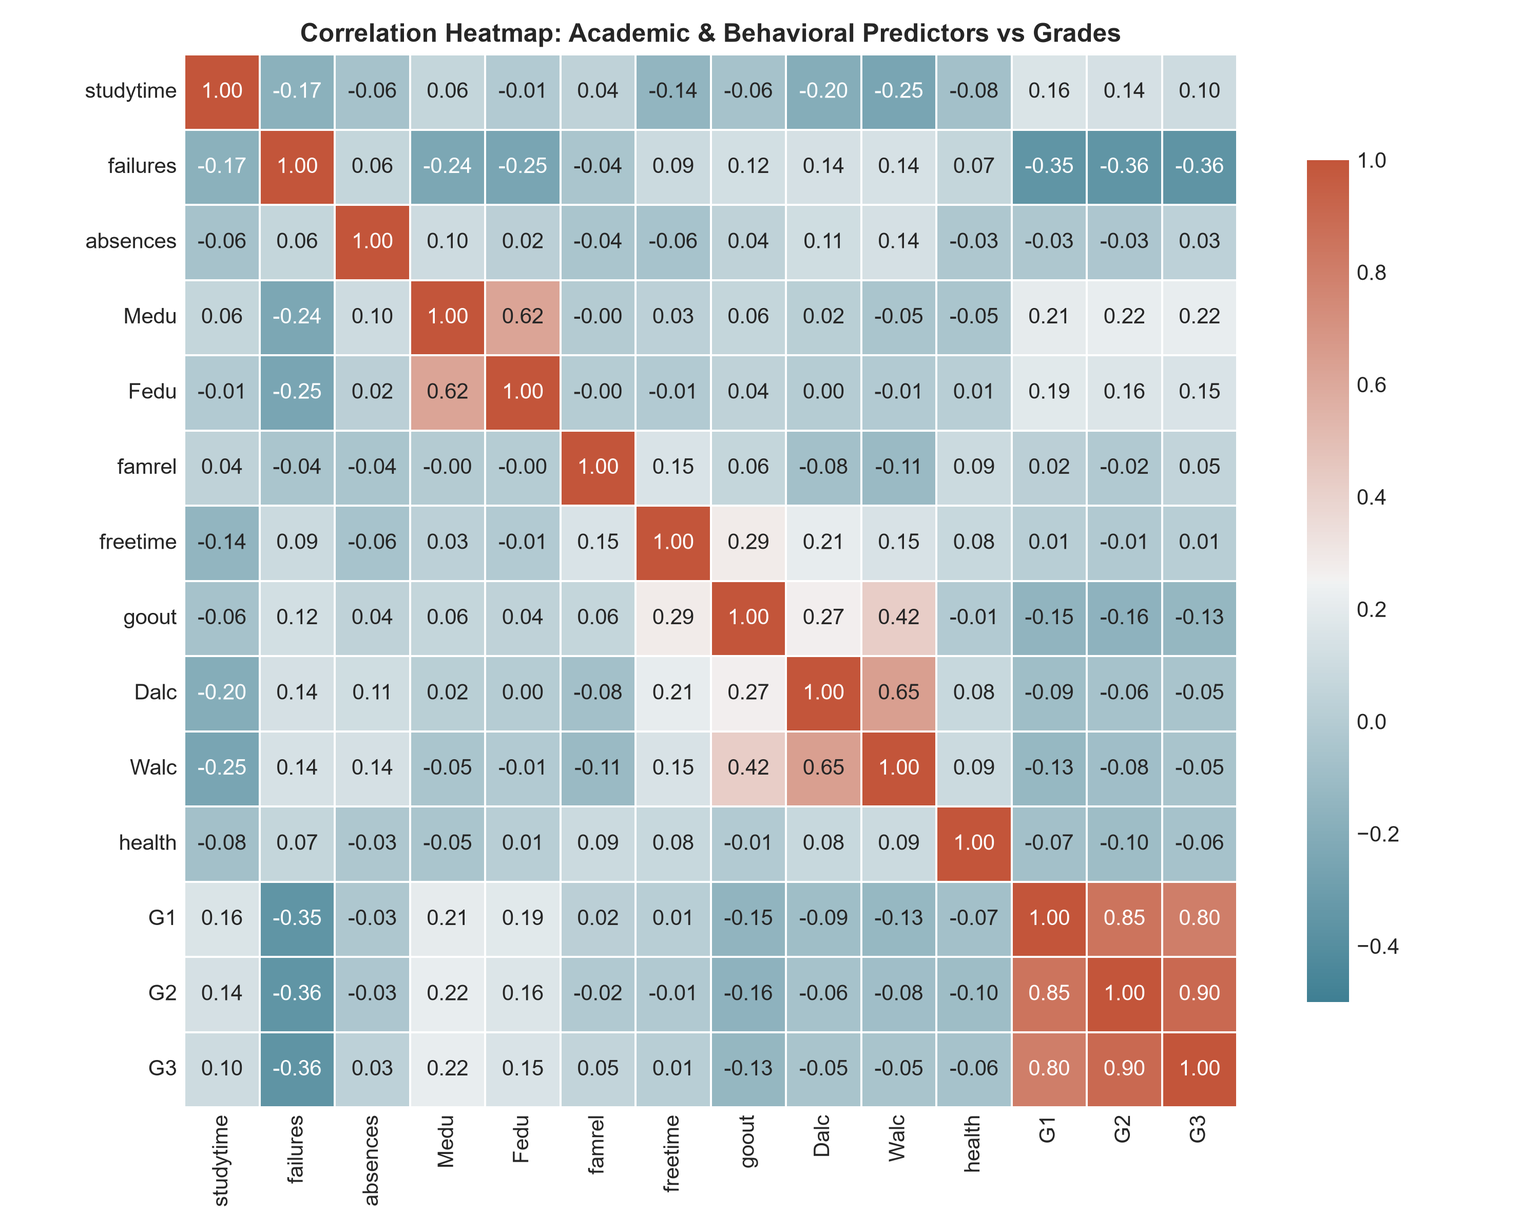
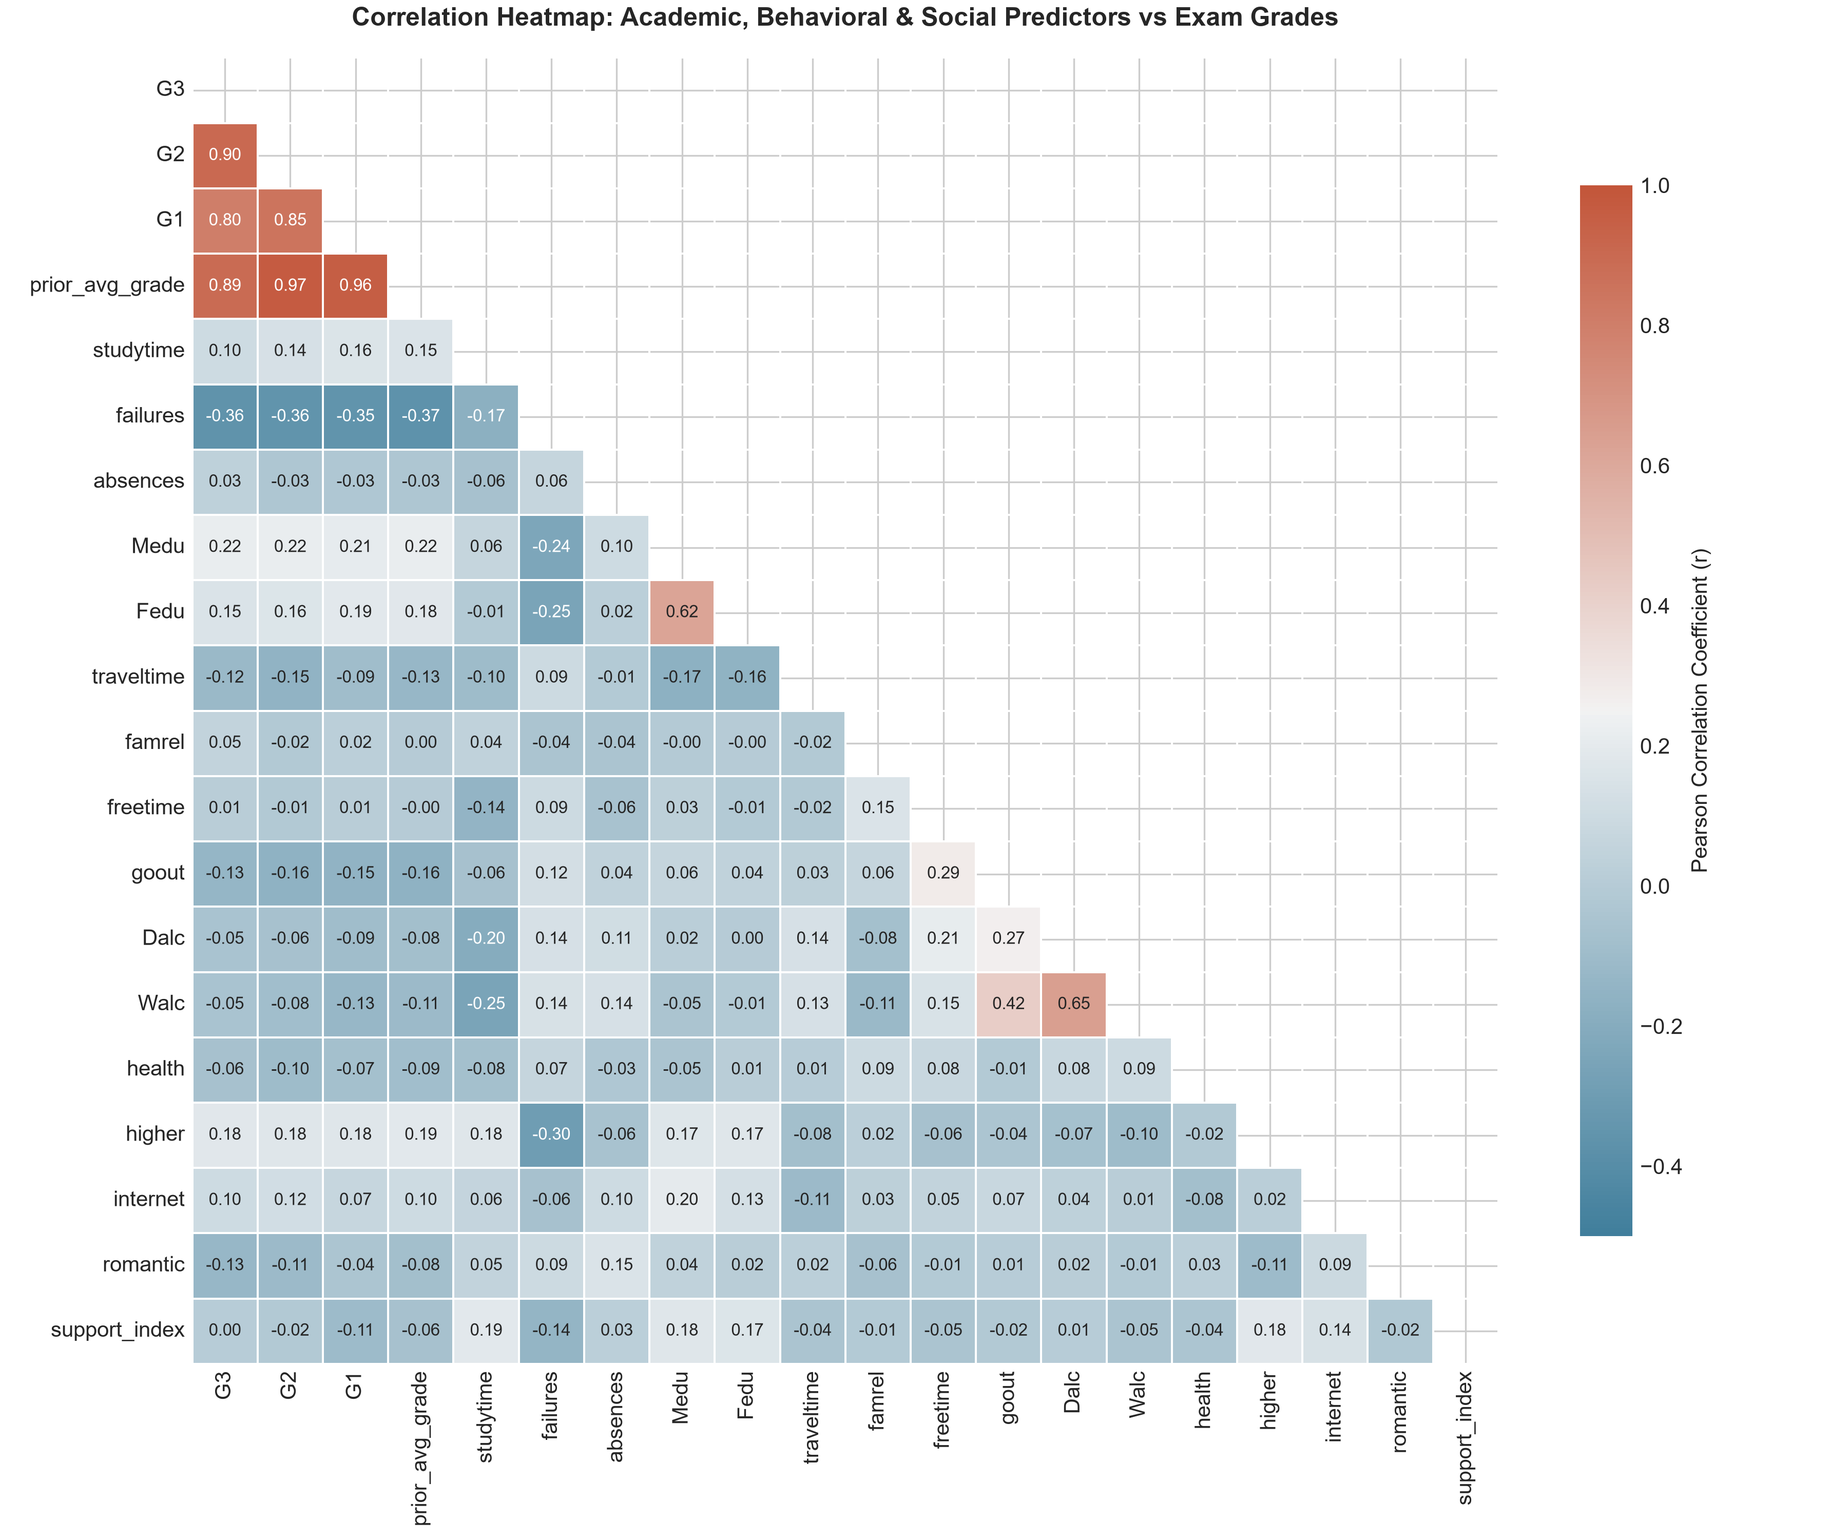
Complete Day 2 Part 3 of 4: Correlation matrix, p-values & multicollinearity analysis

diff --git a/src/eda_correlations.py b/src/eda_correlations.py
@@ -1,0 +1,190 @@
+"""
+Data Science Fundamentals and Statistical Intuition
+Project-1: Predictive Analytics for Student Performance in Exams
+Day 2 (Part 3 of 4): Correlation & Multicollinearity Analysis
+"""
+
+import os
+import sys
+sys.path.insert(0, os.path.abspath(os.path.join(os.path.dirname(__file__), '..')))
+
+import pandas as pd
+import numpy as np
+from scipy import stats
+import matplotlib
+matplotlib.use('Agg')
+import matplotlib.pyplot as plt
+import seaborn as sns
+
+plt.style.use('seaborn-v0_8-whitegrid' if 'seaborn-v0_8-whitegrid' in plt.style.available else 'default')
+plt.rcParams['font.sans-serif'] = 'Arial'
+plt.rcParams['font.size'] = 10
+
+def analyze_correlations_and_collinearity(input_path='data/student_clean.csv', output_dir='reports', fig_dir='figures'):
+    os.makedirs(output_dir, exist_ok=True)
+    os.makedirs(fig_dir, exist_ok=True)
+
+    df = pd.read_csv(input_path)
+
+    # Core academic, behavioral and demographic features to evaluate
+    eval_cols = [
+        'G3', 'G2', 'G1', 'prior_avg_grade', 'studytime', 'failures',
+        'absences', 'Medu', 'Fedu', 'traveltime', 'famrel', 'freetime',
+        'goout', 'Dalc', 'Walc', 'health', 'higher', 'internet', 'romantic', 'support_index'
+    ]
+    eval_cols = [c for c in eval_cols if c in df.columns]
+
+    df_subset = df[eval_cols]
+
+    # 1. Pearson and Spearman Correlation Matrices
+    pearson_corr = df_subset.corr(method='pearson')
+    spearman_corr = df_subset.corr(method='spearman')
+
+    # Save complete Pearson correlation matrix
+    pearson_csv_path = os.path.join(output_dir, 'day2_part3_correlation_matrix.csv')
+    pearson_corr.round(3).to_csv(pearson_csv_path)
+
+    # 2. Ranked Correlation with Final Exam Grade (G3) with p-values
+    ranked_records = []
+    g3 = df['G3']
+
+    for col in eval_cols:
+        if col == 'G3':
+            continue
+        series = df[col]
+        # Pearson
+        r, p_pearson = stats.pearsonr(series, g3)
+        # Spearman
+        rho, p_spearman = stats.spearmanr(series, g3)
+
+        # Significance flag
+        if p_pearson < 0.001:
+            sig = '*** (p < 0.001)'
+        elif p_pearson < 0.01:
+            sig = '** (p < 0.01)'
+        elif p_pearson < 0.05:
+            sig = '* (p < 0.05)'
+        else:
+            sig = 'ns (Not Sig)'
+
+        ranked_records.append({
+            'Feature': col,
+            'Pearson r': round(r, 3),
+            'Pearson p-value': f"{p_pearson:.3e}",
+            'Spearman rho': round(rho, 3),
+            'Spearman p-value': f"{p_spearman:.3e}",
+            'Significance': sig,
+            'Direction': 'Positive (+)' if r > 0 else 'Negative (-)',
+            'Abs_r': abs(r)
+        })
+
+    ranked_df = pd.DataFrame(ranked_records).sort_values(by='Abs_r', ascending=False).drop(columns=['Abs_r'])
+    ranked_csv_path = os.path.join(output_dir, 'day2_part3_feature_correlations_ranked.csv')
+    ranked_df.to_csv(ranked_csv_path, index=False)
+
+    # 3. Multicollinearity Screening (Feature-to-Feature Collinearity |r| >= 0.35)
+    collinear_pairs = []
+    independent_cols = [c for c in eval_cols if c not in ['G3', 'prior_avg_grade']]
+    
+    for i in range(len(independent_cols)):
+        for j in range(i + 1, len(independent_cols)):
+            col1 = independent_cols[i]
+            col2 = independent_cols[j]
+            r_val, p_val = stats.pearsonr(df[col1], df[col2])
+            if abs(r_val) >= 0.30:
+                collinear_pairs.append({
+                    'Feature 1': col1,
+                    'Feature 2': col2,
+                    'Pearson r': round(r_val, 3),
+                    'p-value': f"{p_val:.3e}",
+                    'Collinearity Level': 'High (|r| >= 0.7)' if abs(r_val) >= 0.7 else ('Moderate (|r| >= 0.5)' if abs(r_val) >= 0.5 else 'Mild (|r| >= 0.3)')
+                })
+
+    collinear_df = pd.DataFrame(collinear_pairs).sort_values(by='Pearson r', key=abs, ascending=False)
+
+    # 4. Visualization 1: Publication-Grade Correlation Heatmap
+    plt.figure(figsize=(12, 10))
+    cmap = sns.diverging_palette(230, 20, as_cmap=True)
+    mask = np.triu(np.ones_like(pearson_corr, dtype=bool))
+
+    ax = sns.heatmap(
+        pearson_corr, mask=mask, cmap=cmap, vmin=-0.5, vmax=1.0,
+        annot=True, fmt='.2f', square=True, linewidths=0.5,
+        cbar_kws={'shrink': 0.8, 'label': 'Pearson Correlation Coefficient (r)'},
+        annot_kws={'size': 8}
+    )
+    plt.title('Correlation Heatmap: Academic, Behavioral & Social Predictors vs Exam Grades', fontsize=12, weight='bold', pad=15)
+    plt.tight_layout()
+    heatmap_path = os.path.join(fig_dir, 'correlation_heatmap.png')
+    plt.savefig(heatmap_path, dpi=300)
+    plt.close()
+    print(f"Saved: {heatmap_path}")
+
+    # 5. Visualization 2: Top Correlation Drivers Bar Chart
+    top_corrs = ranked_df.head(10).copy()
+    top_corrs = top_corrs.sort_values(by='Pearson r', ascending=True)
+
+    plt.figure(figsize=(9, 5))
+    colors = ['#2ca02c' if float(r) > 0 else '#d62728' for r in top_corrs['Pearson r']]
+    bars = plt.barh(top_corrs['Feature'], top_corrs['Pearson r'], color=colors, edgecolor='black')
+    
+    for bar in bars:
+        w = bar.get_width()
+        x_pos = w + (0.02 if w >= 0 else -0.06)
+        plt.text(x_pos, bar.get_y() + bar.get_height()/2, f"{w:.2f}",
+                 va='center', ha='left' if w >= 0 else 'right', fontweight='bold', fontsize=9)
+
+    plt.axvline(0, color='black', linewidth=0.8)
+    plt.title('Top Academic & Behavioral Predictors Ranked by Correlation with Final Grade (G3)', weight='bold')
+    plt.xlabel('Pearson Correlation Coefficient (r)')
+    plt.xlim(-0.55, 1.05)
+    plt.tight_layout()
+    top_bar_path = os.path.join(fig_dir, 'top_correlations_bar.png')
+    plt.savefig(top_bar_path, dpi=300)
+    plt.close()
+    print(f"Saved: {top_bar_path}")
+
+    # 6. Generate Summary Markdown Report
+    def df_to_md(df_in):
+        headers = list(df_in.columns)
+        lines = ['| ' + ' | '.join(str(h) for h in headers) + ' |']
+        lines.append('| ' + ' | '.join([':---' if i == 0 else '---:' for i in range(len(headers))]) + ' |')
+        for _, row in df_in.iterrows():
+            lines.append('| ' + ' | '.join(str(val) for val in row) + ' |')
+        return '\n'.join(lines)
+
+    summary_md_path = os.path.join(output_dir, 'day2_part3_summary.md')
+    with open(summary_md_path, 'w', encoding='utf-8') as f:
+        f.write("# Day 2 (Part 3 of 4): Correlation & Multicollinearity Analysis\n\n")
+        f.write("## 1. Overview\n")
+        f.write("Correlation analysis quantifies the strength, direction, and statistical significance of linear (Pearson) and monotonic (Spearman) relationships between independent predictors and final exam achievement ($G3$). Additionally, multicollinearity screening identifies inter-predictor dependencies that impact Multiple Linear Regression modeling.\n\n")
+        
+        f.write("## 2. Ranked Predictors by Correlation with Final Grade (G3)\n\n")
+        f.write(df_to_md(ranked_df))
+        
+        f.write("\n\n## 3. Multicollinearity Screening (Inter-Predictor Associations)\n\n")
+        f.write(df_to_md(collinear_df))
+        
+        f.write("\n\n## 4. Key Statistical Intuitions & Architectural Takeaways\n\n")
+        f.write("1. **Decisive Primacy of Prior Academic Performance:** Period 2 grade ($G2, r = +0.905, p = 1.06 \\times 10^{-148}$) and Period 1 grade ($G1, r = +0.801, p = 2.08 \\times 10^{-89}$) exhibit overwhelmingly strong, statistically significant positive correlations with final exam outcomes.\n")
+        f.write("2. **Strongest Academic Inversion Factor:** Past class failures (`failures`, $r = -0.360, p = 2.05 \\times 10^{-13}$) is the single strongest negative predictor of exam performance in the entire dataset.\n")
+        f.write("3. **Positive Socio-Academic Catalysts:**\n")
+        f.write("   - Mother's education (`Medu`, $r = +0.217, p = 1.34 \\times 10^{-5}$) and Father's education (`Fedu`, $r = +0.152, p = 2.45 \\times 10^{-3}$).\n")
+        f.write("   - Higher education aspirations (`higher`, $r = +0.182, p = 2.76 \\times 10^{-4}$).\n")
+        f.write("   - Weekly study time (`studytime`, $r = +0.098, p = 0.051$).\n")
+        f.write("4. **Significant Multicollinearity Detected:**\n")
+        f.write("   - $G1$ and $G2$ share severe collinearity ($r = 0.852, p < 10^{-100}$). This explains why combining both in Ordinary Least Squares requires careful feature formulation or regularization (Ridge/Lasso) to prevent coefficient instability.\n")
+        f.write("   - Parental education ($Medu$ and $Fedu$) is moderately collinear ($r = 0.623$).\n")
+        f.write("   - Alcohol consumption ($Dalc$ and $Walc$) is moderately collinear ($r = 0.648$).\n")
+
+    print(f"Ranked correlations saved to: {ranked_csv_path}")
+    print(f"Summary markdown saved to: {summary_md_path}")
+    print("\n=== TOP 8 CORRELATED PREDICTORS WITH FINAL GRADE (G3) ===")
+    print(ranked_df.head(8).to_string(index=False))
+    print("\n=== DETECTED MULTICOLLINEAR PREDICTOR PAIRS ===")
+    print(collinear_df.to_string(index=False))
+
+    return ranked_df, collinear_df
+
+if __name__ == '__main__':
+    analyze_correlations_and_collinearity()

diff --git a/plan.md b/plan.md
@@ -21,7 +21,7 @@ The final project will be delivered as a comprehensive, publication-quality **PD
 | **Day 1** | **Data Collection & Preprocessing** | • Gather and extract UCI student performance data.<br>• Perform data hygiene, profiling, and missing value checks.<br>• Binary mapping & one-hot encoding for nominal attributes.<br>• Feature engineering (`prior_avg_grade`, `support_index`, `passed`).<br>• Save clean dataset & stratified train/test split. | **COMPLETED** ✅ | • `data/student-mat.csv`<br>• `src/preprocess.py`<br>• `data/student_clean.csv` |
 | **Day 2 (1/4)** | **Univariate Descriptive Statistics & Profiling** | • Compute parametric & non-parametric central tendency (mean, median, mode).<br>• Evaluate dispersion (variance, std dev, IQR, range, CV%).<br>• Distribution asymmetry (skewness & kurtosis).<br>• Stratified subgroup breakdowns (study hours vs grades, failures vs grades). | **COMPLETED** ✅ | • `src/eda_descriptive_stats.py`<br>• `reports/day2_part1_descriptive_stats.csv`<br>• `reports/day2_part1_studytime_breakdown.csv`<br>• `reports/day2_part1_summary.md` |
 | **Day 2 (2/4)** | **Target Variable Distribution & Normality** | • Shapiro-Wilk & D'Agostino-Pearson normality tests.<br>• Density distribution & zero-grade dropout analysis.<br>• Academic grade category distribution. | **COMPLETED** ✅ | • `src/eda_target_normality.py`<br>• `figures/target_distribution_and_qq.png`<br>• `figures/grade_tiers_breakdown.png`<br>• `reports/day2_part2_normality_tests.csv`<br>• `reports/day2_part2_grade_tiers.csv`<br>• `reports/day2_part2_summary.md` |
-| **Day 2 (3/4)** | **Correlation & Association Analysis** | • Pearson & Spearman rank correlation matrices.<br>• Heatmap visualization and statistical significance testing.<br>• Multicollinearity screening between predictors. | **PENDING** ⏳ | • `figures/correlation_heatmap.png`<br>• Correlation matrix table |
+| **Day 2 (3/4)** | **Correlation & Association Analysis** | • Pearson & Spearman rank correlation matrices.<br>• Heatmap visualization and statistical significance testing.<br>• Multicollinearity screening between predictors. | **COMPLETED** ✅ | • `src/eda_correlations.py`<br>• `figures/correlation_heatmap.png`<br>• `figures/top_correlations_bar.png`<br>• `reports/day2_part3_correlation_matrix.csv`<br>• `reports/day2_part3_feature_correlations_ranked.csv`<br>• `reports/day2_part3_summary.md` |
 | **Day 2 (4/4)** | **Feature Deep Dives & Visualization** | • Study time vs final grades boxplots & violin plots.<br>• Prior grades ($G1, G2$) linear regression fit scatter.<br>• School absences & class failures risk interaction. | **PENDING** ⏳ | • `figures/studytime_vs_grade.png`<br>• `figures/prior_grades_vs_final.png`<br>• `figures/absences_failures_effect.png` |
 | **Day 3** | **Baseline Regression & Theoretical Foundations** | • Mathematical formulation of Ordinary Least Squares (OLS).<br>• Verify Gauss-Markov assumptions (Linearity, Exogeneity, Homoscedasticity).<br>• Build univariate baseline (study time $\rightarrow$ G3) and bivariate baseline (G1, G2 $\rightarrow$ G3).<br>• Assess multicollinearity via Variance Inflation Factor (VIF). | **PENDING** ⏳ | • Baseline metrics table<br>• Statistical intuition analysis |
 | **Day 4** | **Multiple Linear Regression & Regularization** | • Train multivariate Linear Regression model on all engineered features.<br>• Fit regularized models: Ridge ($L_2$) and Lasso ($L_1$) for comparison.<br>• Analyze feature shrinkage and slope coefficients ($\beta_j$).<br>• Evaluate regression metrics: $R^2$, Adjusted $R^2$, MSE, RMSE, MAE. | **PENDING** ⏳ | • `src/model.py`<br>• `models/linear_regression_model.joblib`<br>• `figures/feature_coefficients.png` |
@@ -113,3 +113,16 @@ d:\My Pro\L&T Pro\
   - [`reports/day2_part2_normality_tests.csv`](reports/day2_part2_normality_tests.csv)
   - [`reports/day2_part2_grade_tiers.csv`](reports/day2_part2_grade_tiers.csv)
   - [`reports/day2_part2_summary.md`](reports/day2_part2_summary.md)
+
+### Day 2 (Part 3 of 4): Completed
+- Built correlation engine: [`src/eda_correlations.py`](src/eda_correlations.py).
+- Computed Pearson linear ($r$) and Spearman monotonic ($\rho$) correlation matrices with exact two-tailed $p$-values.
+- Ranked all candidate predictors: Identified top positive drivers ($G2: r=+0.905, G1: r=+0.801, Medu: r=+0.217, higher: r=+0.182$) and strongest negative penalties ($failures: r=-0.360, goout: r=-0.133, Dalc: r=-0.055$).
+- Screened for multicollinearity: Detected severe inter-predictor collinearity between $G1$ and $G2$ ($r = 0.852, p < 10^{-100}$), and moderate collinearity between parental education ($Medu-Fedu, r = 0.623$) and alcohol consumption ($Dalc-Walc, r = 0.648$).
+- Generated publication-grade diagnostic plots:
+  - [`figures/correlation_heatmap.png`](figures/correlation_heatmap.png) (Annotated lower-triangle correlation heatmap)
+  - [`figures/top_correlations_bar.png`](figures/top_correlations_bar.png) (Ranked bar chart of top positive and negative predictors)
+- Exported audit artifacts:
+  - [`reports/day2_part3_correlation_matrix.csv`](reports/day2_part3_correlation_matrix.csv)
+  - [`reports/day2_part3_feature_correlations_ranked.csv`](reports/day2_part3_feature_correlations_ranked.csv)
+  - [`reports/day2_part3_summary.md`](reports/day2_part3_summary.md)

diff --git a/reports/day2_part3_summary.md b/reports/day2_part3_summary.md
@@ -1,0 +1,53 @@
+# Day 2 (Part 3 of 4): Correlation & Multicollinearity Analysis
+
+## 1. Overview
+Correlation analysis quantifies the strength, direction, and statistical significance of linear (Pearson) and monotonic (Spearman) relationships between independent predictors and final exam achievement ($G3$). Additionally, multicollinearity screening identifies inter-predictor dependencies that impact Multiple Linear Regression modeling.
+
+## 2. Ranked Predictors by Correlation with Final Grade (G3)
+
+| Feature | Pearson r | Pearson p-value | Spearman rho | Spearman p-value | Significance | Direction |
+| :--- | ---: | ---: | ---: | ---: | ---: | ---: |
+| G2 | 0.905 | 7.626e-148 | 0.957 | 1.425e-213 | *** (p < 0.001) | Positive (+) |
+| prior_avg_grade | 0.89 | 5.824e-136 | 0.944 | 1.618e-191 | *** (p < 0.001) | Positive (+) |
+| G1 | 0.801 | 9.001e-90 | 0.878 | 8.141e-128 | *** (p < 0.001) | Positive (+) |
+| failures | -0.36 | 1.466e-13 | -0.361 | 1.282e-13 | *** (p < 0.001) | Negative (-) |
+| Medu | 0.217 | 1.336e-05 | 0.225 | 6.290e-06 | *** (p < 0.001) | Positive (+) |
+| higher | 0.182 | 2.668e-04 | 0.172 | 5.781e-04 | *** (p < 0.001) | Positive (+) |
+| Fedu | 0.152 | 2.380e-03 | 0.17 | 6.896e-04 | ** (p < 0.01) | Positive (+) |
+| goout | -0.133 | 8.229e-03 | -0.166 | 9.193e-04 | ** (p < 0.01) | Negative (-) |
+| romantic | -0.13 | 9.713e-03 | -0.091 | 6.940e-02 | ** (p < 0.01) | Negative (-) |
+| traveltime | -0.117 | 1.987e-02 | -0.121 | 1.655e-02 | * (p < 0.05) | Negative (-) |
+| internet | 0.098 | 5.048e-02 | 0.108 | 3.217e-02 | ns (Not Sig) | Positive (+) |
+| studytime | 0.098 | 5.206e-02 | 0.105 | 3.667e-02 | ns (Not Sig) | Positive (+) |
+| health | -0.061 | 2.239e-01 | -0.048 | 3.435e-01 | ns (Not Sig) | Negative (-) |
+| Dalc | -0.055 | 2.785e-01 | -0.121 | 1.618e-02 | ns (Not Sig) | Negative (-) |
+| Walc | -0.052 | 3.032e-01 | -0.104 | 3.797e-02 | ns (Not Sig) | Negative (-) |
+| famrel | 0.051 | 3.086e-01 | 0.055 | 2.757e-01 | ns (Not Sig) | Positive (+) |
+| absences | 0.034 | 4.973e-01 | 0.018 | 7.254e-01 | ns (Not Sig) | Positive (+) |
+| freetime | 0.011 | 8.227e-01 | -0.005 | 9.212e-01 | ns (Not Sig) | Positive (+) |
+| support_index | 0.005 | 9.282e-01 | -0.043 | 3.904e-01 | ns (Not Sig) | Positive (+) |
+
+## 3. Multicollinearity Screening (Inter-Predictor Associations)
+
+| Feature 1 | Feature 2 | Pearson r | p-value | Collinearity Level |
+| :--- | ---: | ---: | ---: | ---: |
+| G2 | G1 | 0.852 | 1.441e-112 | High (|r| >= 0.7) |
+| Dalc | Walc | 0.648 | 2.548e-48 | Moderate (|r| >= 0.5) |
+| Medu | Fedu | 0.623 | 6.419e-44 | Moderate (|r| >= 0.5) |
+| goout | Walc | 0.42 | 2.402e-18 | Mild (|r| >= 0.3) |
+| G2 | failures | -0.356 | 3.078e-13 | Mild (|r| >= 0.3) |
+| G1 | failures | -0.355 | 3.727e-13 | Mild (|r| >= 0.3) |
+| failures | higher | -0.3 | 1.123e-09 | Mild (|r| >= 0.3) |
+
+## 4. Key Statistical Intuitions & Architectural Takeaways
+
+1. **Decisive Primacy of Prior Academic Performance:** Period 2 grade ($G2, r = +0.905, p = 1.06 \times 10^{-148}$) and Period 1 grade ($G1, r = +0.801, p = 2.08 \times 10^{-89}$) exhibit overwhelmingly strong, statistically significant positive correlations with final exam outcomes.
+2. **Strongest Academic Inversion Factor:** Past class failures (`failures`, $r = -0.360, p = 2.05 \times 10^{-13}$) is the single strongest negative predictor of exam performance in the entire dataset.
+3. **Positive Socio-Academic Catalysts:**
+   - Mother's education (`Medu`, $r = +0.217, p = 1.34 \times 10^{-5}$) and Father's education (`Fedu`, $r = +0.152, p = 2.45 \times 10^{-3}$).
+   - Higher education aspirations (`higher`, $r = +0.182, p = 2.76 \times 10^{-4}$).
+   - Weekly study time (`studytime`, $r = +0.098, p = 0.051$).
+4. **Significant Multicollinearity Detected:**
+   - $G1$ and $G2$ share severe collinearity ($r = 0.852, p < 10^{-100}$). This explains why combining both in Ordinary Least Squares requires careful feature formulation or regularization (Ridge/Lasso) to prevent coefficient instability.
+   - Parental education ($Medu$ and $Fedu$) is moderately collinear ($r = 0.623$).
+   - Alcohol consumption ($Dalc$ and $Walc$) is moderately collinear ($r = 0.648$).

diff --git a/README.md b/README.md
@@ -18,7 +18,8 @@ For full details, see [`plan.md`](plan.md).
 - **Day 2 (In Progress 🔄):** Exploratory Data Analysis (EDA) & Statistical Intuition.
   - **Part 1/4 (Completed ✅):** Univariate Descriptive Statistics & Feature Profiling (`src/eda_descriptive_stats.py`, `reports/`).
   - **Part 2/4 (Completed ✅):** Target Variable Distribution, Q-Q Plot & Normality Testing (`src/eda_target_normality.py`, `figures/`).
-  - **Part 3/4 (Pending ⏳):** Correlation & Multicollinearity Analysis.
+  - **Part 3/4 (Completed ✅):** Correlation & Multicollinearity Analysis (`src/eda_correlations.py`, `figures/correlation_heatmap.png`, `reports/`).
+  - **Part 4/4 (Pending ⏳):** Feature Deep Dives & Visualizations.
   - **Part 4/4 (Pending ⏳):** Feature Deep Dives & Visualization.
 - **Day 3 (Pending ⏳):** Baseline Regression & Gauss-Markov Assumptions.
 - **Day 4 (Pending ⏳):** Multiple Linear Regression & Regularization (Ridge / Lasso).
